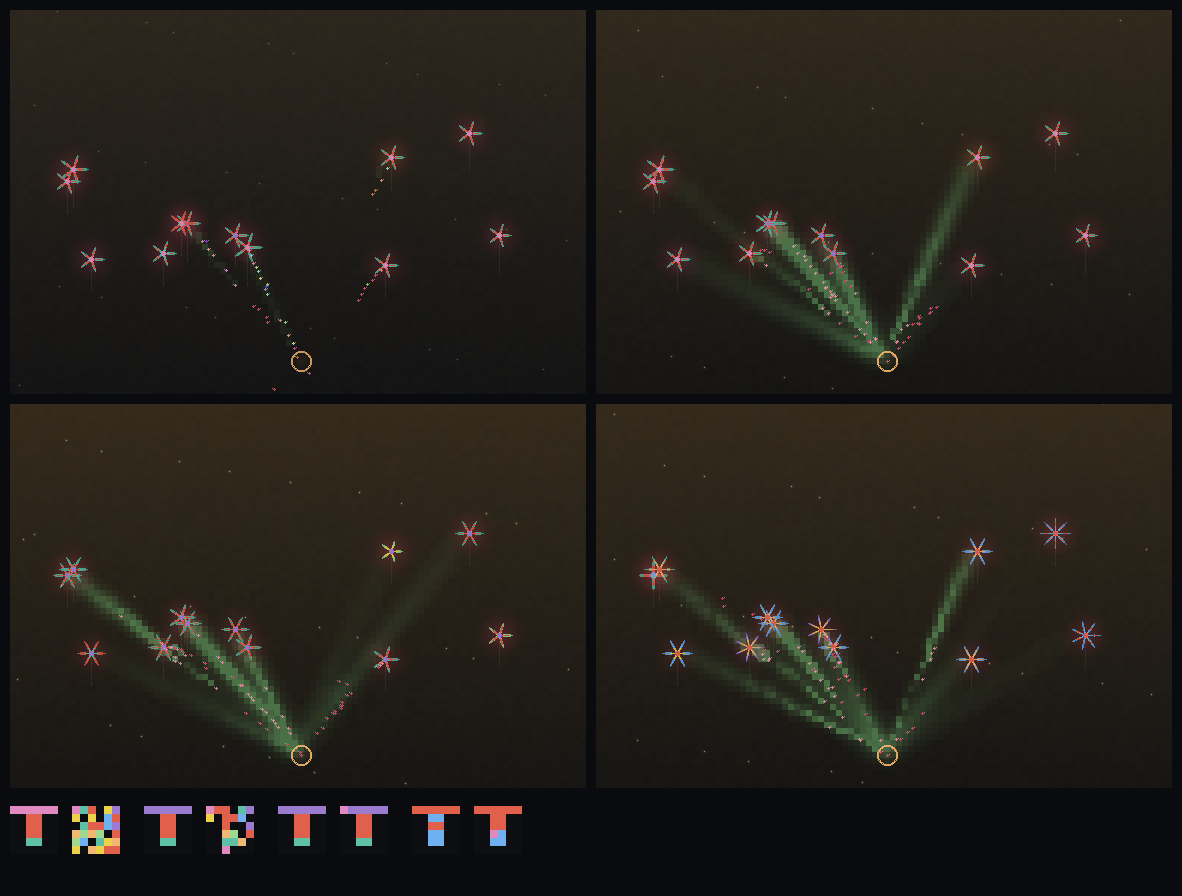
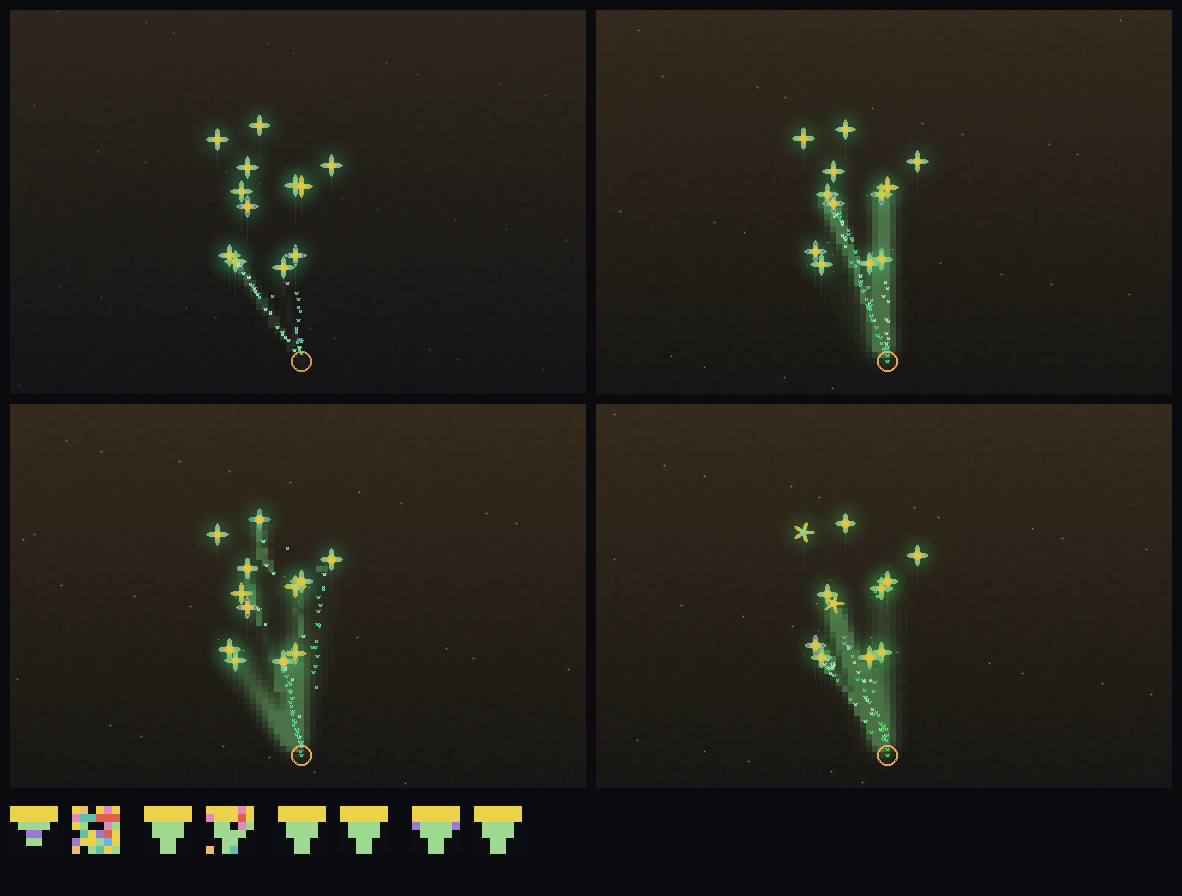
feat(bloom): break the T — 2D grid structure (rings + veins), fuller blooms
Acting on the dream-reviewer critic's #1 finding: the radial-wedge decode-grid
was structurally a ⊤ glyph every garden (core bar on top, petal stem, mostly
EMPTY = a short cheap climb). Added two structural gene-sets read by the polar
expression: RINGS (concentric bands by radius → row structure in the grid +
real bullseye nectar-guides on the bloom) and VEINS (angular sub-stripes at a
higher harmonic → column structure + petal veining). One genome, two renderings
— so the dashboard grid, the inspect card, and the flower sprite all gain 2D
structure at once. Rounder petals (sharp 1..3.5) so blooms read full, not spiky.
Now blooms have a bright core + petals + guides and gardens land on DISTINCT
glyphs (seed 7 yellow stars, seed 21 red-orange blooms). The climb is richer and
the merge is MORE sustained (soul test 0.77→0.85), still green (73/73). [loop iter 2]

Claude-Session: https://claude.ai/code/session_018yShAq2BssQDy9jVBhYWNQ

diff --git a/bloom/js/genome.js b/bloom/js/genome.js
@@ -18,14 +18,18 @@
     return {
       // FORM
       symmetry: randint(rng, 3, 8),                 // petal count (the radial repeat — why it reads as a flower)
-      petalLength: 0.45 + rng() * 0.53,             // 0.45..0.98
-      petalSharp: 1 + rng() * 5,                     // 1..6 — round↔pointed
-      coreSize: 0.10 + rng() * 0.26,                // 0.10..0.36
-      // SIGNAL (indices into the shared pixel palette)
+      petalLength: 0.5 + rng() * 0.48,              // 0.5..0.98
+      petalSharp: 1 + rng() * 2.5,                   // 1..3.5 — round↔pointed (rounder so blooms read full, not spiky)
+      coreSize: 0.10 + rng() * 0.24,                // 0.10..0.34
+      // SIGNAL (indices into the shared pixel palette) — these give the bloom AND the decode-grid their 2D pattern
       petalColor: randint(rng, 0, 7),
       guideColor: randint(rng, 0, 7),
       coreColor: randint(rng, 0, 7),
-      guidePattern: randint(rng, 0, 7),             // 3 bits → which radial bands carry the guide colour
+      guidePattern: randint(rng, 0, 7),             // along-petal guide bands (3 bits)
+      ringColor: randint(rng, 0, 7),                // concentric nectar-guide rings (RADIAL structure → grid rows)
+      ringPattern: randint(rng, 0, 7),              // which of 3 radial bands carry a ring (3 bits)
+      veinColor: randint(rng, 0, 7),                // sub-veins across the petal (ANGULAR structure → grid columns)
+      veinFreq: randint(rng, 0, 3),                 // 0 = no veins; 1..3 = that many sub-veins per petal
       // BEACON (far-scale attractor)
       beaconHue: rng(),                             // 0..1
       beaconIntensity: 0.5 + rng() * 0.5,           // 0.5..1
@@ -52,15 +56,21 @@
   // Every pixel's (normalized r ∈[0,1], angle θ) decides: core / petal / guide-band / empty.
   Genome.regionIndex = function (g, r, theta) {
     if (r < g.coreSize) return g.coreColor | 0;
-    const wave = (Math.cos(theta * g.symmetry) + 1) / 2;           // 1 on a petal axis, 0 in the gap
+    const sym = g.symmetry;
+    const wave = (Math.cos(theta * sym) + 1) / 2;                  // 1 on a petal axis, 0 in the gap
     const reach = g.coreSize + (g.petalLength - g.coreSize) * Math.pow(wave, g.petalSharp);
-    if (r <= reach) {
-      const along = (r - g.coreSize) / (reach - g.coreSize + 1e-6); // 0..1 out the petal
-      const band = Math.min(2, (along * 3) | 0);
-      if (wave > 0.6 && ((g.guidePattern >> band) & 1)) return g.guideColor | 0;
-      return g.petalColor | 0;
-    }
-    return -1;                                                      // empty
+    if (r > reach) return -1;                                      // empty
+    let col = g.petalColor | 0;
+    // RINGS — concentric bands by radius (independent of angle): structure down the grid ROWS
+    const span = g.petalLength - g.coreSize + 1e-6;
+    const rb = Math.min(2, (((r - g.coreSize) / span) * 3) | 0);   // 3 radial bands
+    if (((g.ringPattern | 0) >> rb) & 1) col = g.ringColor | 0;
+    // VEINS — sub-stripes across the petal at a higher harmonic (independent of radius): structure across COLUMNS
+    if ((g.veinFreq | 0) > 0 && Math.cos(theta * sym * (g.veinFreq + 1)) > 0.35) col = g.veinColor | 0;
+    // along-petal guide bands, on the petal axis (kept)
+    const along = (r - g.coreSize) / (reach - g.coreSize + 1e-6);
+    if (wave > 0.6 && ((g.guidePattern >> Math.min(2, (along * 3) | 0)) & 1)) col = g.guideColor | 0;
+    return col;                                                    // rings × veins × guides → a genuinely 2D glyph
   };
 
   // The decode-grid = one petal-wedge, unrolled & downsampled. radius→rows (core→tip), angle→columns.
@@ -92,25 +102,30 @@
     const c = {
       symmetry: g.symmetry, petalLength: g.petalLength, petalSharp: g.petalSharp, coreSize: g.coreSize,
       petalColor: g.petalColor, guideColor: g.guideColor, coreColor: g.coreColor, guidePattern: g.guidePattern,
+      ringColor: g.ringColor | 0, ringPattern: g.ringPattern | 0, veinColor: g.veinColor | 0, veinFreq: g.veinFreq | 0,
       beaconHue: g.beaconHue, beaconIntensity: g.beaconIntensity, nectarRate: g.nectarRate, pollenRate: g.pollenRate,
     };
     // how many genes to touch this step (usually 1)
     const k = 1 + (rng() < 0.25 * rate ? 1 : 0);
     for (let n = 0; n < k; n++) {
-      const pick = randint(rng, 0, 11);
+      const pick = randint(rng, 0, 15);
       switch (pick) {
         case 0: c.symmetry = clamp(c.symmetry + (rng() < 0.5 ? -1 : 1), 3, 8); break;
-        case 1: c.petalLength = clamp(c.petalLength + B.gauss(rng) * 0.10 * rate, 0.45, 0.98); break;
-        case 2: c.petalSharp = clamp(c.petalSharp + B.gauss(rng) * 0.8 * rate, 1, 6); break;
-        case 3: c.coreSize = clamp(c.coreSize + B.gauss(rng) * 0.05 * rate, 0.10, 0.36); break;
+        case 1: c.petalLength = clamp(c.petalLength + B.gauss(rng) * 0.10 * rate, 0.5, 0.98); break;
+        case 2: c.petalSharp = clamp(c.petalSharp + B.gauss(rng) * 0.5 * rate, 1, 3.5); break;
+        case 3: c.coreSize = clamp(c.coreSize + B.gauss(rng) * 0.05 * rate, 0.10, 0.34); break;
         case 4: c.petalColor = (c.petalColor + (rng() < 0.5 ? 7 : 1)) % 8; break;
         case 5: c.guideColor = (c.guideColor + (rng() < 0.5 ? 7 : 1)) % 8; break;
         case 6: c.coreColor = (c.coreColor + (rng() < 0.5 ? 7 : 1)) % 8; break;
         case 7: c.guidePattern = c.guidePattern ^ (1 << randint(rng, 0, 2)); break; // flip one band bit
-        case 8: c.beaconHue = (c.beaconHue + B.gauss(rng) * 0.06 * rate + 1) % 1; break;
-        case 9: c.beaconIntensity = clamp(c.beaconIntensity + B.gauss(rng) * 0.08 * rate, 0.4, 1); break;
-        case 10: c.nectarRate = clamp(c.nectarRate + B.gauss(rng) * 0.12 * rate, 0.4, 1.6); break;
-        case 11: c.pollenRate = clamp(c.pollenRate + B.gauss(rng) * 0.12 * rate, 0.4, 1.6); break;
+        case 8: c.ringColor = (c.ringColor + (rng() < 0.5 ? 7 : 1)) % 8; break;
+        case 9: c.ringPattern = c.ringPattern ^ (1 << randint(rng, 0, 2)); break;
+        case 10: c.veinColor = (c.veinColor + (rng() < 0.5 ? 7 : 1)) % 8; break;
+        case 11: c.veinFreq = clamp(c.veinFreq + (rng() < 0.5 ? -1 : 1), 0, 3); break;
+        case 12: c.beaconHue = (c.beaconHue + B.gauss(rng) * 0.06 * rate + 1) % 1; break;
+        case 13: c.beaconIntensity = clamp(c.beaconIntensity + B.gauss(rng) * 0.08 * rate, 0.4, 1); break;
+        case 14: c.nectarRate = clamp(c.nectarRate + B.gauss(rng) * 0.12 * rate, 0.4, 1.6); break;
+        case 15: c.pollenRate = clamp(c.pollenRate + B.gauss(rng) * 0.12 * rate, 0.4, 1.6); break;
       }
     }
     return c;
